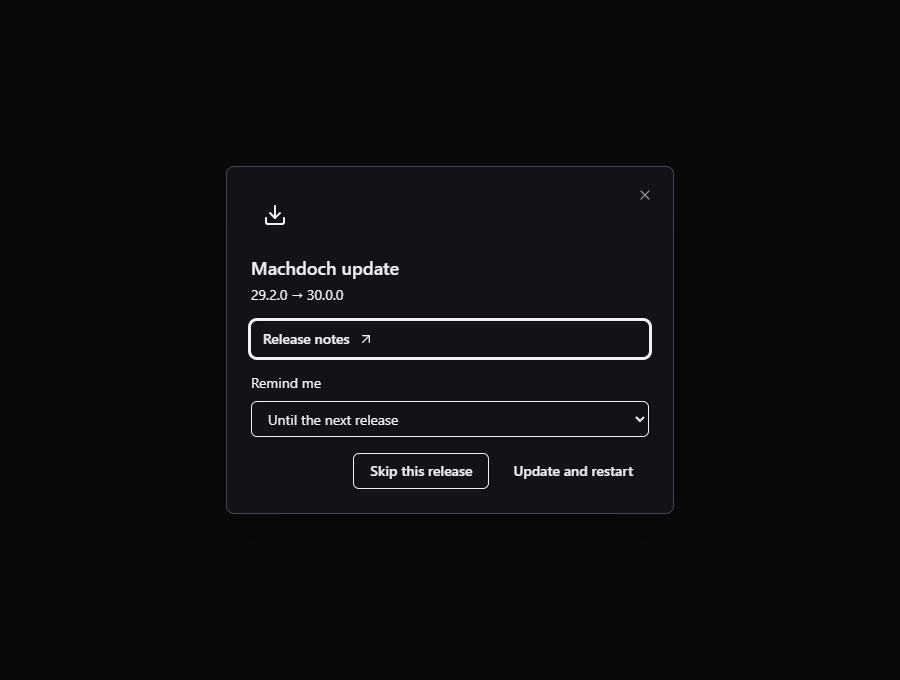
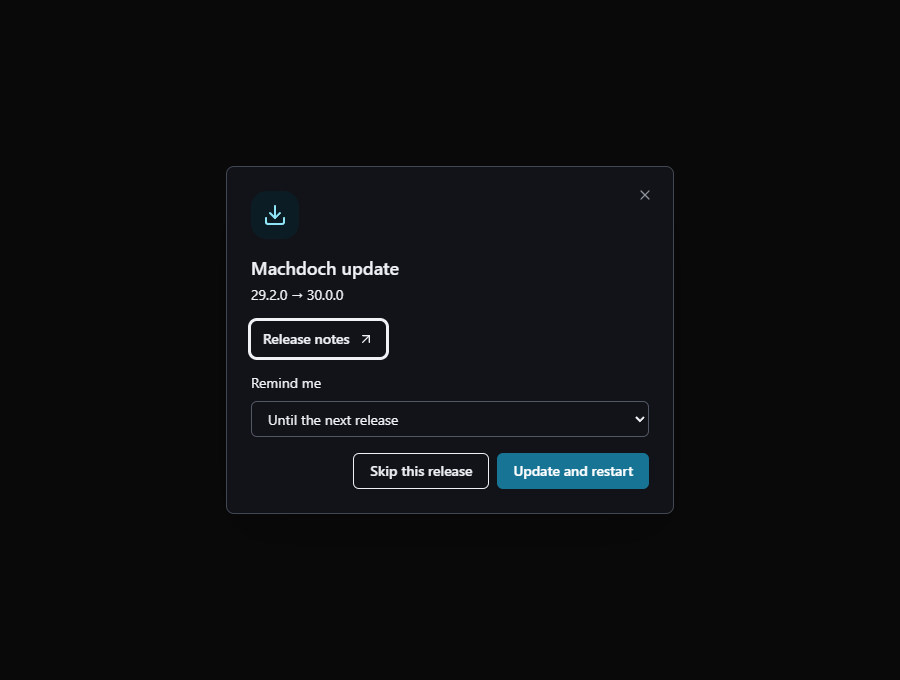
🎨 Improve update dialog contrast

diff --git a/apps/client/src/tauri/ui/update/update-dialog.tsx b/apps/client/src/tauri/ui/update/update-dialog.tsx
@@ -48,7 +48,7 @@ export function UpdateDialog({
         aria-describedby={updater.release ? "update-description" : undefined}
       >
         <DialogHeader>
-          <div className="mb-3 grid size-12 place-items-center rounded-2xl bg-primary/10 text-primary">
+          <div className="mb-3 grid size-12 place-items-center rounded-2xl bg-sky-950/70 text-sky-300">
             <Download aria-hidden="true" className="size-6" />
           </div>
           <DialogTitle>{title}</DialogTitle>
@@ -59,7 +59,7 @@ export function UpdateDialog({
         {updater.release && !working && updater.phase !== "installed" ? (
           <Button
             variant="link"
-            className="h-auto justify-start px-0"
+            className="h-auto w-fit justify-start px-0"
             onClick={() => {
               void openUrl(
                 `https://github.com/pureportal/machdoch/releases/tag/v${updater.release!.version}`,
@@ -90,7 +90,7 @@ export function UpdateDialog({
             </div>
             <progress
               aria-label="Update download"
-              className="h-2 w-full accent-primary"
+              className="h-2 w-full accent-sky-500"
               max={updater.progress.total ?? 1}
               value={
                 updater.progress.total ? updater.progress.downloaded : undefined
@@ -104,7 +104,7 @@ export function UpdateDialog({
           </p>
         ) : null}
         {updater.error ? (
-          <p role="alert" className="text-sm text-destructive">
+          <p role="alert" className="text-sm text-rose-300">
             {updater.error}
           </p>
         ) : null}
@@ -112,7 +112,7 @@ export function UpdateDialog({
           <label className="grid gap-2 text-sm">
             Remind me
             <select
-              className="h-9 rounded-md border border-input bg-background px-3 text-foreground"
+              className="h-9 rounded-md border border-slate-700 bg-slate-950 px-3 text-slate-100"
               value={duration}
               onChange={(event) =>
                 setDuration(event.target.value as typeof duration)
@@ -129,6 +129,7 @@ export function UpdateDialog({
         <DialogFooter>
           {updater.phase === "installed" ? (
             <Button
+              className="bg-sky-600 text-white hover:bg-sky-500"
               onClick={() => {
                 void updater.restart();
               }}
@@ -149,6 +150,7 @@ export function UpdateDialog({
                   : "Remind me later"}
               </Button>
               <Button
+                className="bg-sky-600 text-white hover:bg-sky-500"
                 disabled={updater.saving}
                 onClick={() => {
                   void updater.install();
